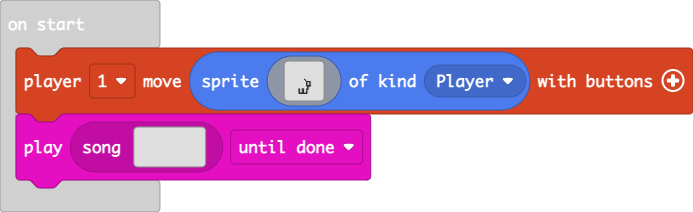
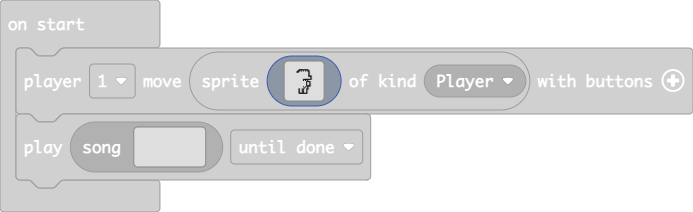
Hedgehog

diff --git a/main.ts b/main.ts
@@ -6,24 +6,24 @@ controller.player1.moveSprite(sprites.create(img`
     ..............................
     ..............................
     ..............................
-    ..............................
-    ..............................
-    ..............................
-    ..............................
-    ..............................
-    ..............................
-    ..............................
-    ..............................
-    ..............................
-    ...............f..............
-    ................f.............
+    ..........fffffffff...........
+    .........ff.f.f.f.ff..........
+    ........ff.........f..........
+    ...................f..........
+    ...................f..........
+    ...................f..........
+    ...................fff........
+    .....................f........
+    .....................f........
+    ..............ffffffff........
+    ..............f.f.f...........
     .................ffff.........
-    .................f..f.........
-    .................f..f.........
-    .................f..f.........
+    .................fddf.........
+    .................fddf.........
+    .................fddf.........
     .................ffff.........
-    ..................f...........
-    ..................f...........
+    ..............f.f.f...........
+    ...............f..f...........
     ..........f..ff..ff...........
     ..........f..ff..f............
     ..........f..ff..f............
